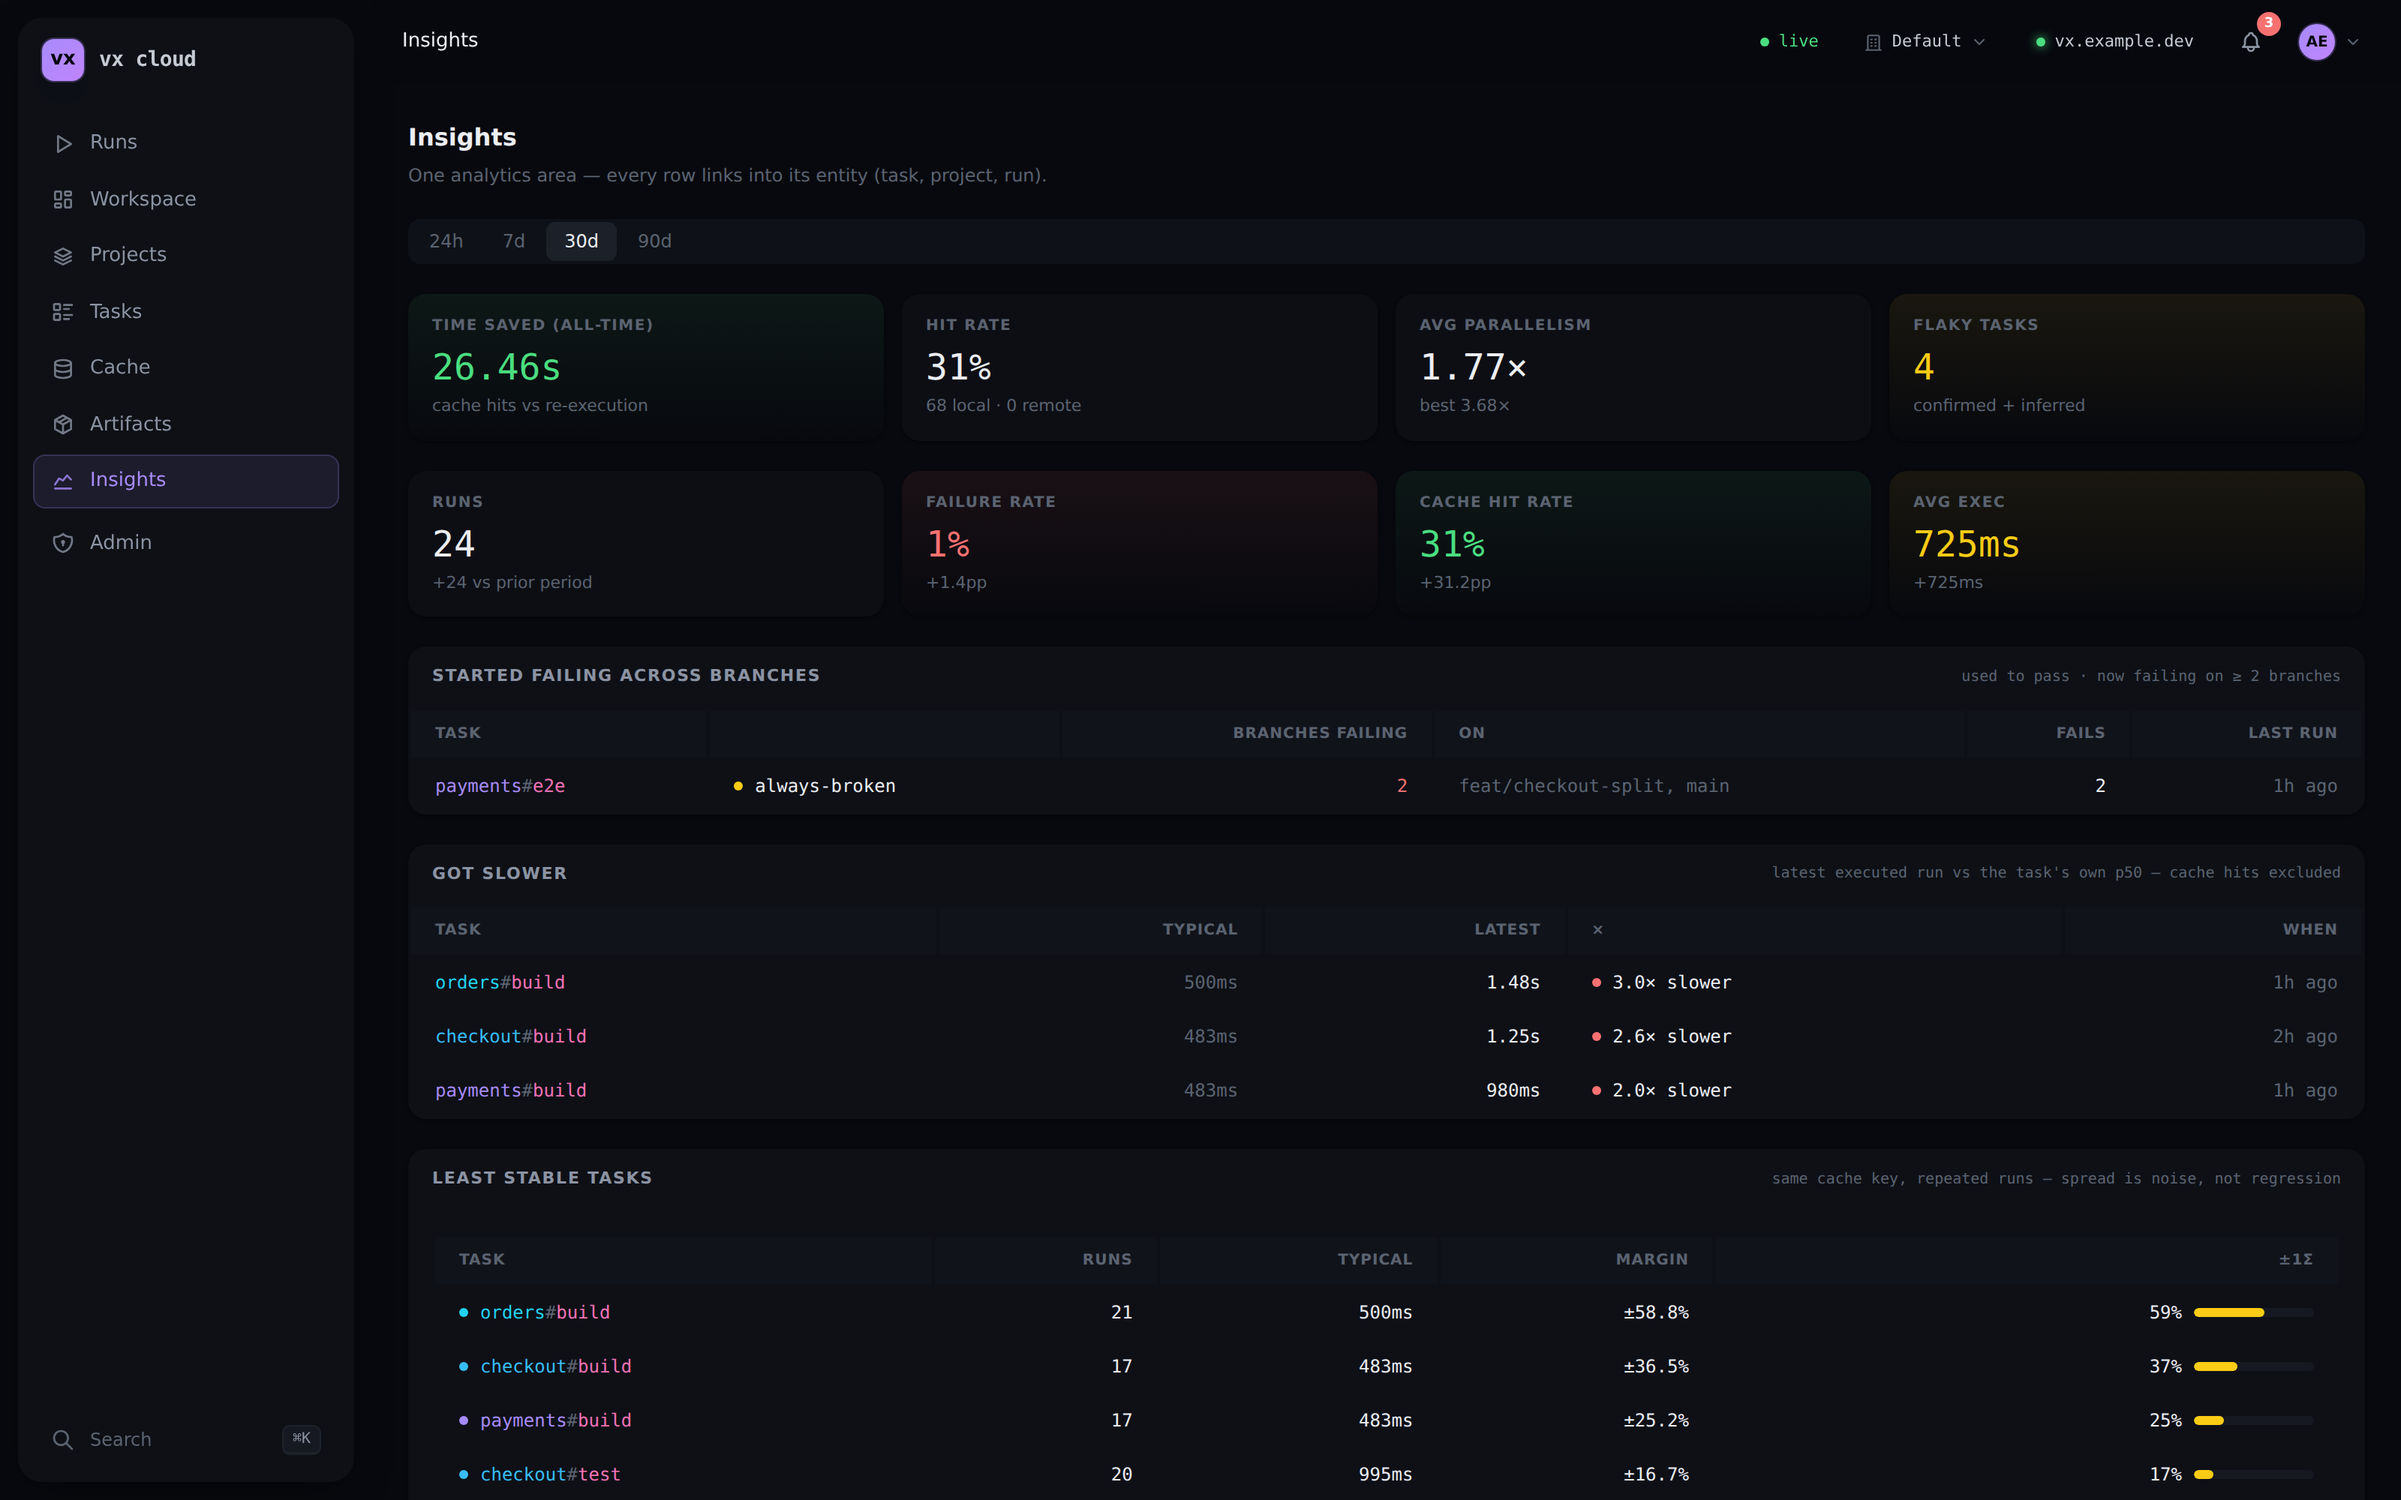
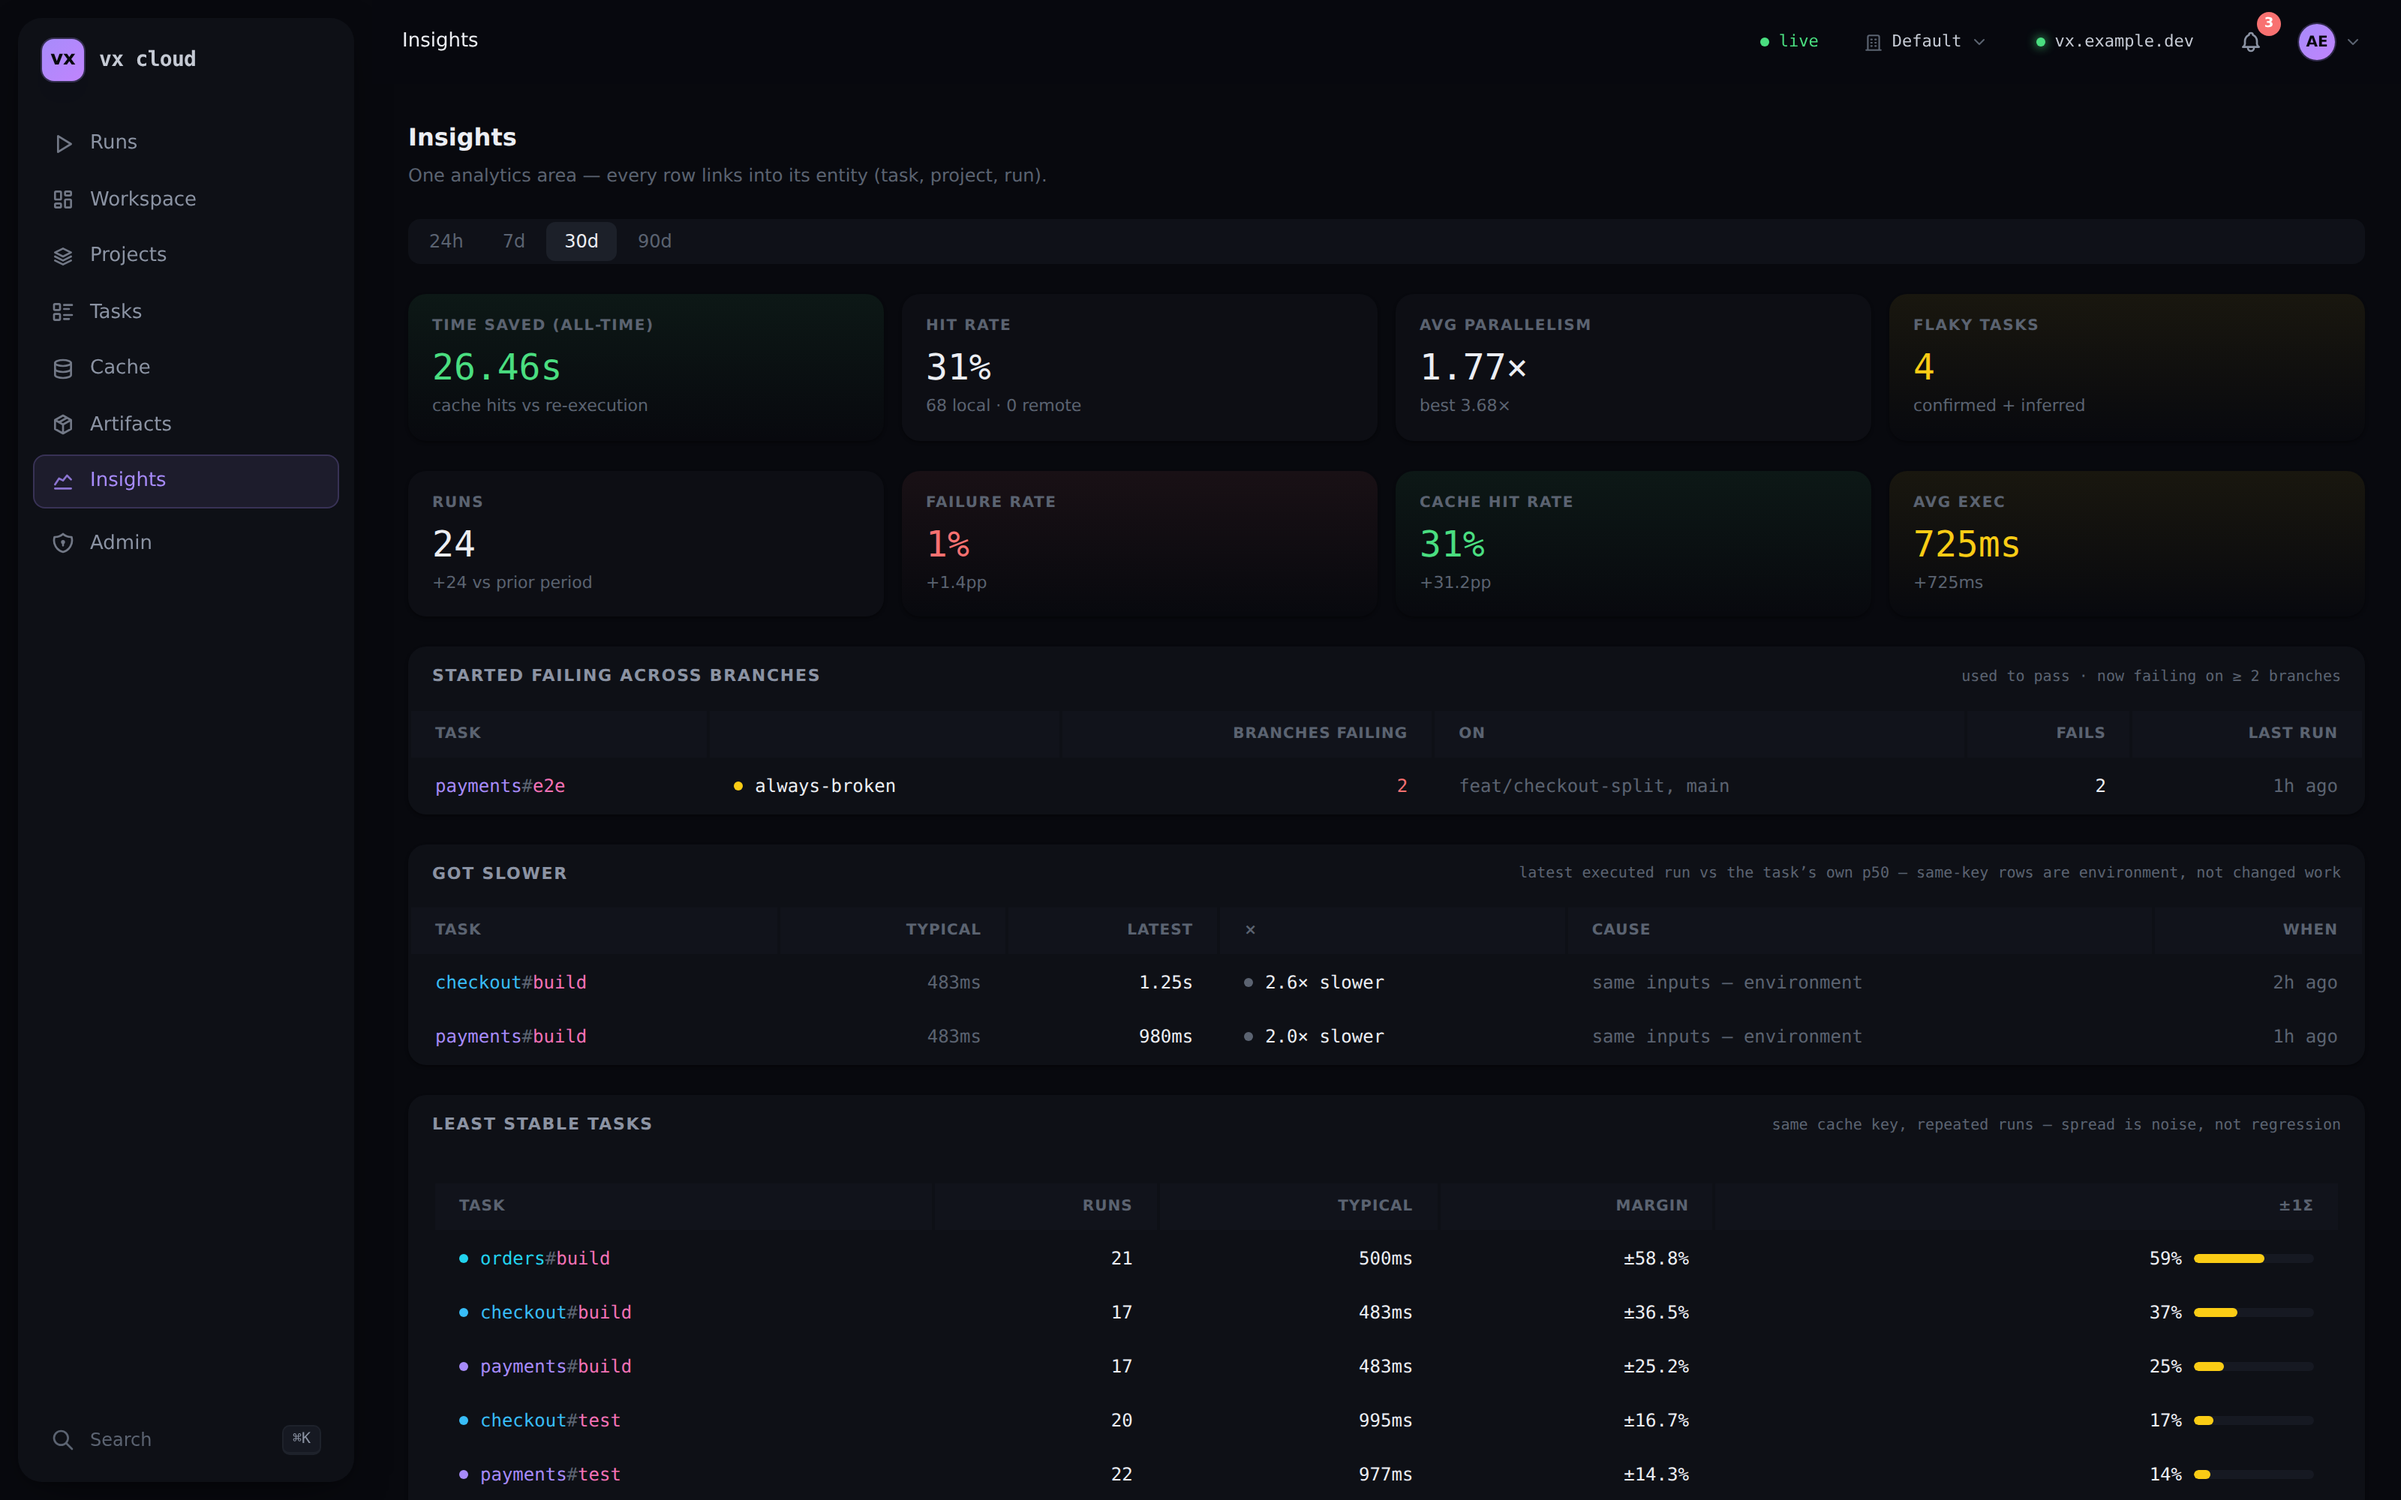
Make the "got slower" detector key-aware
The least-stable card exposed an inconsistency on its first render:
orders#build read "±58.8% margin" and "3.0x slower" at the same time,
both computed across the SAME cache key. One card called the number
noise while the card above it blamed the code for it.

Same key means identical inputs, so the extra time cannot be
attributed to changed work - it is the machine, contention, or the
task's own variance. detectSlowdowns now reads each run's hash and
classifies three ways: same inputs (key already seen among earlier
executions), inputs changed (new key AND an earlier keyed execution to
compare against - the only state that earns the danger dot), and no
earlier run (no keyed prior execution, so no evidence either way - the
row must not claim the inputs changed).

It also suppresses a same-key run whose duration was already observed
for those exact inputs: that is the task's known spread, and reporting
it as a slowdown reports noise as news. orders#build now disappears
from Got slower and appears only where it belongs, at the top of Least
stable tasks.

Insights gains a Cause column; the baseline (and therefore the docs
screenshot) is refreshed.

Claude-Session: https://claude.ai/code/session_01RW7aso5j5CrBo7cjyET23D

diff --git a/packages/cloud/ui/src/jr/functions.ts b/packages/cloud/ui/src/jr/functions.ts
@@ -531,6 +531,21 @@ export interface SlowdownRow {
   ratio: number
   /** When the slow run happened (epoch ms). */
   at: number
+  /**
+   * Whether the slow run's cache key was ALREADY seen among this task's
+   * earlier executions. Same key ⇒ identical inputs ⇒ the extra time cannot
+   * be attributed to changed work; it is the environment (machine,
+   * contention, I/O) or the task's own variance.
+   */
+  sameInputs: boolean
+  /**
+   * Display label for that distinction. `no earlier run` is the honest
+   * third state: with no prior keyed execution in the window there is no
+   * evidence either way, so the row must NOT claim the inputs changed.
+   */
+  cause: 'inputs changed' | 'same inputs — environment' | 'no earlier run'
+  /** Worst time previously observed for the SAME key (0 when key is new). */
+  priorWorst: number
 }
 
 interface SlowdownHistory {
@@ -544,6 +559,8 @@ interface SlowdownRun {
   cacheHit: boolean | null
   durationMs: number
   startedAt: number
+  /** Cache key of the run — what makes "same inputs" answerable. */
+  hash?: string | null
 }
 
 /**
@@ -551,6 +568,13 @@ interface SlowdownRun {
  * duration, with a >= 100ms absolute floor so millisecond noise never flags.
  * Cache hits are excluded on both sides — this compares real work against
  * real work. `rows` must be newest-first (the /v1/runs order).
+ *
+ * KEY-AWARE: a slow run whose cache key was already seen ran on IDENTICAL
+ * inputs, so the extra time is environment or variance — never "the code got
+ * slower". Those rows are still surfaced (a machine that got slower is worth
+ * knowing) but are labeled as such, AND must beat the worst time previously
+ * observed for that same key: a duration already seen for those exact inputs
+ * is the task's known spread, not news.
  */
 export function detectSlowdowns(
   hist: readonly SlowdownHistory[],
@@ -560,27 +584,59 @@ export function detectSlowdowns(
     hist.filter((h) => (h.p50DurationMs ?? 0) > 0).map((h) => [h.id, h.p50DurationMs ?? 0]),
   )
   const latest = new Map<string, SlowdownRun>()
+  // Earlier executed durations per (task, key) — the evidence for whether a
+  // slow run's inputs were ever run before, and how long they took then.
+  const priorByKey = new Map<string, number[]>()
+  // Tasks with at least one EARLIER keyed execution. Without one there is no
+  // evidence either way, so a new-looking key must not be read as a change.
+  const hasPriorKey = new Set<string>()
   for (const r of rows) {
     if (r.status !== 'success' || r.cacheHit === true) continue
     const id = `${r.project}#${r.task}`
-    if (!latest.has(id)) latest.set(id, r) // newest-first ⇒ first seen wins
+    if (!latest.has(id)) {
+      latest.set(id, r) // newest-first ⇒ first seen wins
+      continue
+    }
+    // Everything after the newest is "prior" for this task.
+    if (r.hash !== undefined && r.hash !== null && r.hash !== '') {
+      hasPriorKey.add(id)
+      const k = `${id}\u0000${r.hash}`
+      const list = priorByKey.get(k)
+      if (list === undefined) priorByKey.set(k, [r.durationMs])
+      else list.push(r.durationMs)
+    }
   }
   const out: SlowdownRow[] = []
   for (const [id, r] of latest) {
     const p50 = p50ById.get(id)
     if (p50 === undefined) continue
     const ratio = r.durationMs / p50
-    if (ratio >= 2 && r.durationMs - p50 >= 100) {
-      out.push({
-        id,
-        project: r.project,
-        task: r.task,
-        p50,
-        last: r.durationMs,
-        ratio,
-        at: r.startedAt,
-      })
-    }
+    if (ratio < 2 || r.durationMs - p50 < 100) continue
+    const prior =
+      r.hash !== undefined && r.hash !== null && r.hash !== ''
+        ? (priorByKey.get(`${id}\u0000${r.hash}`) ?? [])
+        : []
+    const sameInputs = prior.length > 0
+    const priorWorst = sameInputs ? Math.max(...prior) : 0
+    // Identical inputs that already took this long are the task's known
+    // spread — reporting them as a slowdown would be reporting noise.
+    if (sameInputs && r.durationMs <= priorWorst) continue
+    out.push({
+      id,
+      project: r.project,
+      task: r.task,
+      p50,
+      last: r.durationMs,
+      ratio,
+      at: r.startedAt,
+      sameInputs,
+      cause: sameInputs
+        ? 'same inputs — environment'
+        : hasPriorKey.has(id)
+          ? 'inputs changed'
+          : 'no earlier run',
+      priorWorst,
+    })
   }
   return out.sort((a, b) => b.ratio - a.ratio).slice(0, 8)
 }

diff --git a/packages/cloud/ui/src/jr/functions.test.ts b/packages/cloud/ui/src/jr/functions.test.ts
@@ -513,3 +513,68 @@ describe('identity + honest dot foundations (design-port wave 1)', () => {
     expect(IDENT_TASK_TEXT).toBe('text-ident-task')
   })
 })
+
+describe('detectSlowdowns is key-aware', () => {
+  const h = (id: string, p50: number | undefined) => ({ id, p50DurationMs: p50 })
+  const r = (
+    project: string,
+    task: string,
+    durationMs: number,
+    startedAt: number,
+    hash?: string,
+  ) => ({
+    project,
+    task,
+    status: 'success',
+    cacheHit: null,
+    durationMs,
+    startedAt,
+    ...(hash !== undefined ? { hash } : {}),
+  })
+
+  it('a NEW cache key attributes the slowdown to changed work', () => {
+    const out = detectSlowdowns(
+      [h('a#t', 500)],
+      // newest first: the slow run is on a key never seen before
+      [r('a', 't', 1500, 9, 'NEW'), r('a', 't', 500, 8, 'OLD'), r('a', 't', 505, 7, 'OLD')],
+    )
+    expect(out).toHaveLength(1)
+    expect(out[0]!.sameInputs).toBe(false)
+    expect(out[0]!.cause).toBe('inputs changed')
+  })
+
+  it('the SAME key blames the environment, never changed work', () => {
+    const out = detectSlowdowns(
+      [h('a#t', 500)],
+      [r('a', 't', 1500, 9, 'K'), r('a', 't', 500, 8, 'K'), r('a', 't', 505, 7, 'K')],
+    )
+    expect(out).toHaveLength(1)
+    expect(out[0]!.sameInputs).toBe(true)
+    expect(out[0]!.cause).toBe('same inputs — environment')
+    expect(out[0]!.priorWorst).toBe(505)
+  })
+
+  it('a same-key time already seen is known spread, not a slowdown', () => {
+    // 1500ms has happened before on these exact inputs — the task is simply
+    // that variable, so reporting it as "got slower" would report noise.
+    const out = detectSlowdowns(
+      [h('a#t', 500)],
+      [r('a', 't', 1500, 9, 'K'), r('a', 't', 1500, 8, 'K'), r('a', 't', 500, 7, 'K')],
+    )
+    expect(out).toEqual([])
+  })
+
+  it('rows without a hash still flag (degrade to the old behavior)', () => {
+    const out = detectSlowdowns([h('a#t', 500)], [r('a', 't', 1500, 9), r('a', 't', 500, 8)])
+    expect(out).toHaveLength(1)
+    expect(out[0]!.sameInputs).toBe(false)
+    // No keyed earlier run ⇒ no evidence ⇒ must NOT claim the inputs changed.
+    expect(out[0]!.cause).toBe('no earlier run')
+  })
+
+  it('a lone executed run claims nothing about its inputs', () => {
+    const out = detectSlowdowns([h('a#t', 500)], [r('a', 't', 1500, 9, 'ONLY')])
+    expect(out).toHaveLength(1)
+    expect(out[0]!.cause).toBe('no earlier run')
+  })
+})

diff --git a/packages/cloud/ui/src/jr/data.ts b/packages/cloud/ui/src/jr/data.ts
@@ -561,7 +561,11 @@ export const SOURCES: Record<string, (p: P) => Promise<unknown>> = {
     return detectSlowdowns(hist, rows).map((s) => ({
       ...s,
       _ratioLabel: `${s.ratio.toFixed(1)}× slower`,
-      _dir: 'slower',
+      // Only a CONFIRMED input change earns the regression dot. Same inputs
+      // means the extra time is environment/variance, and no earlier keyed
+      // run means there is no evidence either way — both read neutral.
+      _dir: s.cause === 'inputs changed' ? 'slower' : 'unattributed',
+      _cause: s.cause,
     }))
   },
   cacheBreakdown: () => getCacheBreakdown(100),

diff --git a/CLAUDE.md b/CLAUDE.md
@@ -208,6 +208,38 @@ serving none of them is probably org-analytics scope creep.
 
 ## Decision log
 
+- **2026-07-26**: **"Got slower" is KEY-AWARE — a same-key slowdown is
+  environment, never changed work** (the inconsistency the least-stable card
+  exposed on its first render: `orders#build` read **±58.8% margin AND "3.0×
+  slower" at the same time**, both computed across the SAME cache key — so
+  the card blamed the code for a number the card beside it called noise).
+  `detectSlowdowns` now consumes each run's `hash` and classifies the slow
+  run three ways: **same inputs** (its key was already seen among the task's
+  earlier executions ⇒ identical inputs ⇒ the extra time is the machine,
+  contention or the task's own variance), **inputs changed** (a new key AND
+  ≥1 earlier keyed execution to compare against — the only state that earns
+  the danger dot), and **no earlier run** (no keyed prior execution in the
+  window ⇒ NO evidence either way ⇒ the row must not claim the inputs
+  changed; the honest third state the first cut lacked, which would have
+  labeled a lone execution "inputs changed" on zero evidence). **The
+  sharper half is a suppression:** a same-key run whose duration was
+  ALREADY OBSERVED for those exact inputs (`durationMs <= priorWorst`) is
+  dropped entirely — that is the task's known spread, and reporting it as
+  "got slower" is reporting noise as news. Verified in the visual guard on
+  a seeded platform: `orders#build` DISAPPEARS from Got slower (its 1500ms
+  had happened before on the same key) and now appears only where it
+  belongs — top of Least stable tasks at ±58.8% — while `checkout#build`
+  (2.6×) and `payments#build` (2.0×) stay listed with a new **Cause**
+  column reading "same inputs — environment" and a faint dot instead of
+  danger red. Pinned by 6 unit cases (new key attributes to changed work,
+  same key blames environment + reports `priorWorst`, already-seen duration
+  is suppressed, hash-less rows degrade to the old behavior with cause
+  "no earlier run", a lone executed run claims nothing). Gates: fmt/lint 0,
+  cloud 561/0, core 1286/0, ui 87/0; the insights baseline (= the docs
+  screenshot) refreshed and re-verified byte-stable. NO schema/wire/CACHE
+  bump (client-side derivation over `hash`, which `/v1/runs` already
+  returned).
+
 - **2026-07-26**: **Deltas are judged against MEASURED noise, not a guessed
   threshold** (the follow-on the stability metric existed to enable). The
   `deltaBar` flat band was `max(5ms, 0.5% of the A-side)` — a number picked by
